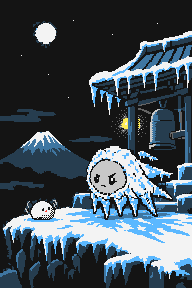
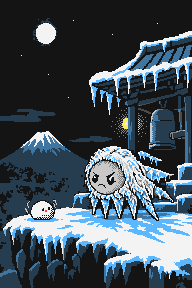
The bosses' story cards redrawn with more pixel detail on the bosses (still drafts behind ?story): each boss in four tones of its own ink, its texture and small features drawn out, the cards' compositions kept
- gpt-image edits of the v4 cards (prompts-v5: keep the card, redraw only the boss: deep shadow, shadow, ink, highlight, a dark outline, its texture pixel by pixel, eyes, teeth, claws, markings), the boss's own look and the hero as references.
- Cut on their own grids with the boss's four-tone ramp; the specks merged everywhere but on and by the boss, so its spots and strands stay (they went with the old cut).
- STORY's cells for the new grids; live.json again for them. The crow card's comments no longer say it waits behind ?story.

Owner, К12 «Б»: «Больше детализации по пикселям у боссов».

diff --git a/src/game.js b/src/game.js
@@ -1187,7 +1187,7 @@ class Game {
     this.tend(H.cy - 12 * lv.tile, H.cy + 12 * lv.tile, (x0, y0, x1, y1, reach) => Math.hypot(Math.max(x0 - H.cx, 0, H.cx - x1), Math.max(y0 - H.cy, 0, H.cy - y1)) < reach * R);   // what the hero comes near
   }
   untangle(f) {   // the crow with the red ring set free (RIBBON): sparks, its thanks and coins, off up it flies with the ring on it, and the story's card II
-    const R = this.R, lv = this.lv;   // a moment after (behind ?story till the owner's «да», as card I)
+    const R = this.R, lv = this.lv;   // a moment after
     f.fly = true; f.t = 0; f.vx = f.dir * 70; f.vy = -190;
     if (lv.gone && !this.well) lv.gone.push(f.id);
     sparkFx(f.x, f.y - R, 14, -Math.PI / 2, Math.PI, [120, 360], [1.4, 3], [0.3, 0.6], [INK.white, PAL.red], 0.6); fx.ring(f.x, f.y - R, 1.6 * R, INK.white);
@@ -2199,14 +2199,14 @@ const STORY = {
   moon_home: { n: '', still: 'assets/cards/10_moon_home.png', cells: [175, 263], ink: 'moon', title: { en: 'Home', es: 'En casa', pt: 'Em casa', ja: 'おかえり' } },
   // The bosses' (owner, 2026-10-23: «Для каждого босса нужна сюжетная карточка»; К11 «А»: before its first fight, by playLevel), each named as the
   // boss is, in its world's ink and its own: drafts till his «да» to their art
-  boss_probka: { n: '', still: 'assets/cards/11_boss_probka.png', cells: [187, 280], ink: 'mine', draft: true, title: BOSSES.probka.name },
-  boss_cart: { n: '', still: 'assets/cards/12_boss_cart.png', cells: [164, 247], ink: 'cave', draft: true, title: BOSSES.cart.name },
+  boss_probka: { n: '', still: 'assets/cards/11_boss_probka.png', cells: [184, 276], ink: 'mine', draft: true, title: BOSSES.probka.name },
+  boss_cart: { n: '', still: 'assets/cards/12_boss_cart.png', cells: [151, 227], ink: 'cave', draft: true, title: BOSSES.cart.name },
   boss_puck: { n: '', still: 'assets/cards/13_boss_puck.png', cells: [192, 288], ink: 'ice', draft: true, title: BOSSES.puck.name },
-  boss_namazu: { n: '', still: 'assets/cards/14_boss_namazu.png', cells: [180, 269], ink: 'sea', draft: true, title: BOSSES.namazu.name },
+  boss_namazu: { n: '', still: 'assets/cards/14_boss_namazu.png', cells: [189, 284], ink: 'sea', draft: true, title: BOSSES.namazu.name },
   boss_tram: { n: '', still: 'assets/cards/15_boss_tram.png', cells: [170, 255], ink: 'tokyo', draft: true, title: BOSSES.tram.name },
-  boss_crane: { n: '', still: 'assets/cards/16_boss_crane.png', cells: [197, 296], ink: 'blocks', draft: true, title: BOSSES.crane.name },
-  boss_pigeon: { n: '', still: 'assets/cards/17_boss_pigeon.png', cells: [153, 230], ink: 'sky', draft: true, title: BOSSES.pigeon.name },
-  boss_koschei: { n: '', still: 'assets/cards/18_boss_koschei.png', cells: [174, 262], ink: 'skazka', draft: true, title: BOSSES.koschei.name },
+  boss_crane: { n: '', still: 'assets/cards/16_boss_crane.png', cells: [191, 287], ink: 'blocks', draft: true, title: BOSSES.crane.name },
+  boss_pigeon: { n: '', still: 'assets/cards/17_boss_pigeon.png', cells: [158, 237], ink: 'sky', draft: true, title: BOSSES.pigeon.name },
+  boss_koschei: { n: '', still: 'assets/cards/18_boss_koschei.png', cells: [198, 297], ink: 'skazka', draft: true, title: BOSSES.koschei.name },
 };
 for (const k in STORY) STORY[k].id = k;
 const STORY_LIVE = /[?&]story\b/.test(location.search);   // (the cards are for all since the owner's К10 «А»; ?story shows the drafts too, and card I before

diff --git a/src/world.js b/src/world.js
@@ -191,7 +191,7 @@ CRITTER.ring = ringAt(14, 4); CRITTER.ringFly = ringAt(16, 5);
 for (const id of ['crow', 'crowUp', 'crowDown', 'craneUp', 'craneDown', 'ring', 'ringFly']) CRITTER[id + 'L'] = CRITTER[id].map((row) => [...row].reverse().join(''));
 // The crow with the red ring (owner, 2026-10-22, the story's card II «A Small Kindness»; n9: the friend is a crow with a red ribbon): on a quiet ledge
 // (the chunk 'ribbon', 1-3's set piece), flapping there now and then; a touch frees it, coins and its thanks, off it flies with the ring on it,
-// and `card` s later the card (STORY village_crow, behind ?story till the owner's «да»), its thanks read first (a card's panel clears a toast)
+// and `card` s later the card (STORY village_crow), its thanks read first (a card's panel clears a toast)
 const RIBBON = { card: 2.4, reach: 1.3, thanks: { en: 'Caw! Free again', es: '¡Cra! Libre otra vez', pt: 'Cra! Livre de novo', ja: 'カァ！ じゆうに なった' } };
 // Tokyo's power lines (THEMES.tokyo), in tiles: from crossarm to crossarm every `arm`, `drop` under it, one `inset` from the walls (owner: half as many
 // as the two there were), sagging `sag`; wireY is its height at x, where a crow perches (FOLK.crowP of the beats).
